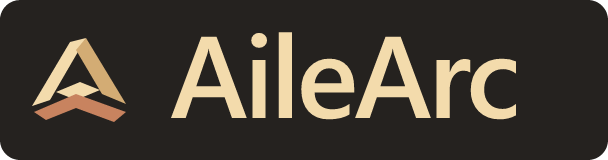
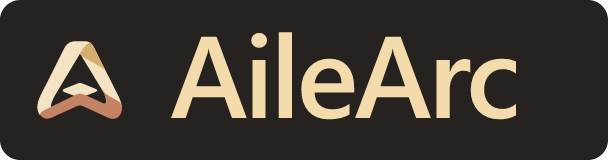
design: refine the folded A into a continuous ribbon identity

Changed region(s): [[0.0312, 0.2188, 0.2188, 0.75]]

diff --git a/assets/brand/README.md b/assets/brand/README.md
@@ -1,6 +1,6 @@
 # AileArc · 折页标识
 
-两片折起的纸页构成 A 的轮廓，下沿的铜色折面表示归档中的下一层。小尺寸保留开口和折痕，不使用字母缩写或拉链细节。
+第二版保留折页 A 的识别轮廓，按图像生成探索稿重绘矢量：将两侧尖角和分离的底边改为连续回折的纸带，缩小中央纸页，保留负空间。深浅字标、应用图标和宣传图统一使用同一折带。
 
 | 用途 | 文件 |
 |---|---|
@@ -12,4 +12,4 @@
 | 英文社交分享卡片 | social.svg、social.png（1200 × 630） |
 | Windows 身份包 | package-150.png |
 
-石墨 #25221F，纸页 #F3DBAC，折面 #D3AC74，铜色 #C8835F。图形周围至少留出约四分之一图标宽度；窄空间使用方形图标，不压缩横幅。SVG 是可编辑源稿，PNG 用于需要固定排版的场合。仓库 MIT 许可证适用于本项目原创图形。
+石墨 #25221F，纸页 #F4E3C3，折面 #D4AE6C，铜色 #C48463。窄空间使用方形图标，不压缩横幅。SVG 是可编辑源稿，PNG 用于固定排版。在仓库根目录运行 export.cjs 文件头的两条命令可以重新导出 PNG 和多尺寸 ICO；导出工具不是客户端运行依赖。仓库 MIT 许可证适用于本项目原创图形。

diff --git a/docs/Development_Log.md b/docs/Development_Log.md
@@ -1,5 +1,10 @@
 # AileArc 开发历程
 
+## 2026-11-06：第二版折带标识
+
+- 在原折页 A 的基础上用图像生成工具探索连续纸带方案，再重绘为可编辑 SVG。更新深浅字标、透明及单色标、EXE 的八尺寸 ICO、身份包图标、横幅和分享图。增加可重复使用的 PNG/ICO 导出脚本，工具不进入运行依赖。
+- 检查 1280×480 横幅、实窗标题栏及 ICO 帧数；本地生成开发包并核对身份包源图与 150px 发布图哈希一致。
+
 ## 2026-11-05：暖石墨多级目录树
 
 - 上轮 CI（42003433940）全部通过后，将 WPF 左栏的根目录快捷列表替换为可独立滚动、虚拟化的多级目录行。后台从 ArchiveIndex 的真实和隐式目录构建层级，按完整、大小写敏感的包内路径定位，不再截断至前 100 个根目录。
